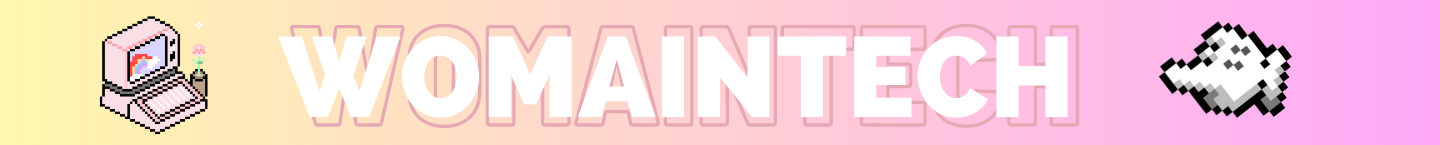
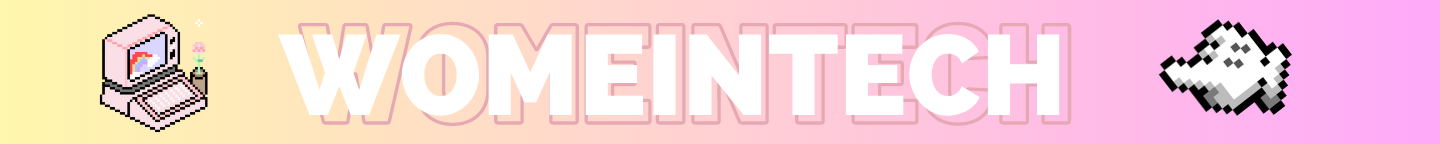
creating more tabs

diff --git a/html/index.html b/html/index.html
@@ -4,22 +4,39 @@
     <meta charset="UTF-8">
     <meta name="viewport" content="width=device-width, initial-scale=1.0">
     <meta http-equiv="X-UA-Compatible" content="ie=edge">
-    <title>WomaInTech</title>
+    <title>WomeInTech</title>
     <link rel="stylesheet" href="../css/style.css">
     <link rel="icon" href="./favicon.ico" type="image/x-icon">
 
-    <div id="cabecalho">
+    <div id="header" class="center">
         <img src="../images/banner.png" alt="Banner">
-        <h2><a href="../html/index.html">Home</a></h2>
     </div>
 
+    <div id="menu" class="center">
+        <a href="../html/index.html">Home</a>  |
+        <a href="../html/noticias.html">Notícias</a>  |
+        <a href="../html/mentorias.html">Mentorias</a>  |
+        <a href="../html/vagas.html">Vagas</a>  |
+        <a href="../html/eventos.html">Eventos</a> |
+        <a href="../html/sobre-nos.html">Sobre nós</a>
+    </div>
 
   </head>
-
-
+  
   <body>
     <main>
-        <p>Welcome to My Website</p>  
+        <div class="content center">
+          <h2>Welcome to My Website</h2> 
+          <p>Lorem ipsum dolor sit amet, consectetur adipiscing elit, sed do eiusmod tempor incididunt ut labore et dolore magna aliqua. Cum sociis natoque penatibus et magnis dis parturient montes. Ut enim blandit volutpat maecenas. Tortor at auctor urna nunc id cursus metus. Eget arcu dictum varius duis at consectetur lorem donec. Est velit egestas dui id ornare arcu odio ut. Porttitor rhoncus dolor purus non enim. Ante metus dictum at tempor commodo ullamcorper a. Tortor at auctor urna nunc id cursus metus. Lorem mollis aliquam ut porttitor leo a. Dui id ornare arcu odio ut. Quisque sagittis purus sit amet volutpat. Est ullamcorper eget nulla facilisi. Morbi leo urna molestie at elementum. Proin gravida hendrerit lectus a. Euismod elementum nisi quis eleifend quam adipiscing vitae.
+
+          Odio aenean sed adipiscing diam donec adipiscing tristique. Pharetra vel turpis nunc eget lorem. Et molestie ac feugiat sed lectus vestibulum mattis ullamcorper. Sit amet consectetur adipiscing elit pellentesque habitant morbi tristique senectus. Tempus egestas sed sed risus pretium quam vulputate. Orci sagittis eu volutpat odio facilisis mauris sit amet. Nisi lacus sed viverra tellus in hac habitasse platea. Elementum facilisis leo vel fringilla est. Tristique senectus et netus et malesuada fames ac. Aliquam eleifend mi in nulla posuere sollicitudin. Non pulvinar neque laoreet suspendisse interdum consectetur libero. Sed augue lacus viverra vitae congue. Viverra maecenas accumsan lacus vel facilisis volutpat est velit egestas. Scelerisque viverra mauris in aliquam. Tristique senectus et netus et. Volutpat odio facilisis mauris sit amet. Risus pretium quam vulputate dignissim suspendisse. Nunc sed id semper risus in hendrerit gravida.
+          
+          Nisi est sit amet facilisis. Leo urna molestie at elementum eu facilisis sed odio. Morbi non arcu risus quis varius quam quisque id diam. Mi quis hendrerit dolor magna eget est lorem. Ut lectus arcu bibendum at varius vel. Consequat nisl vel pretium lectus quam id leo in vitae. Consequat interdum varius sit amet mattis vulputate enim nulla aliquet. Sem viverra aliquet eget sit amet tellus cras adipiscing. Malesuada nunc vel risus commodo viverra maecenas accumsan lacus vel. Malesuada fames ac turpis egestas. Tincidunt praesent semper feugiat nibh. Eu facilisis sed odio morbi quis. Odio eu feugiat pretium nibh ipsum consequat. Eros in cursus turpis massa tincidunt dui ut ornare lectus. Morbi tristique senectus et netus et malesuada. Dapibus ultrices in iaculis nunc sed augue lacus viverra. Ut venenatis tellus in metus vulputate eu scelerisque felis. Sed nisi lacus sed viverra tellus in.
+          
+          Eget velit aliquet sagittis id consectetur purus ut faucibus. Id diam vel quam elementum pulvinar etiam non. Viverra orci sagittis eu volutpat odio. Nunc consequat interdum varius sit amet mattis vulputate enim nulla. In metus vulputate eu scelerisque felis imperdiet proin. Tortor id aliquet lectus proin. Porta lorem mollis aliquam ut porttitor leo. Sed turpis tincidunt id aliquet risus. Pellentesque diam volutpat commodo sed. Donec ac odio tempor orci dapibus ultrices. Lectus vestibulum mattis ullamcorper velit sed ullamcorper.
+          </p>
+        </div>
+        
     </main>
 	<script src="index.js"></script>
   </body>

diff --git a/css/style.css b/css/style.css
@@ -1,11 +1,43 @@
-#cabecalho {
-    background-color: #E6A9B4;
+#header {
     width: 1440px;
-    height: 220px;
+}
+
+
+#header, a {
     color: white;
+}
+
+#footer {
     text-align: center;
 }
 
-#cabecalho, a {
+#menu {
+    width: 100%;
+    height: 30px;
+    background-color: #E6A9B4;
     color: white;
+    text-align: center;
+    padding: 15px;
+    justify-content: center;
+    font-weight: bold;
+    font-size: 30px;
 }
+
+#menu, a {
+    padding: 18px;
+}
+
+body {
+    background-color: #FAEDE8;
+}
+
+
+.content {
+    background-color: white;
+    width: 90%;
+}
+
+.center {
+    margin: auto;
+    padding: 10px;
+  }
